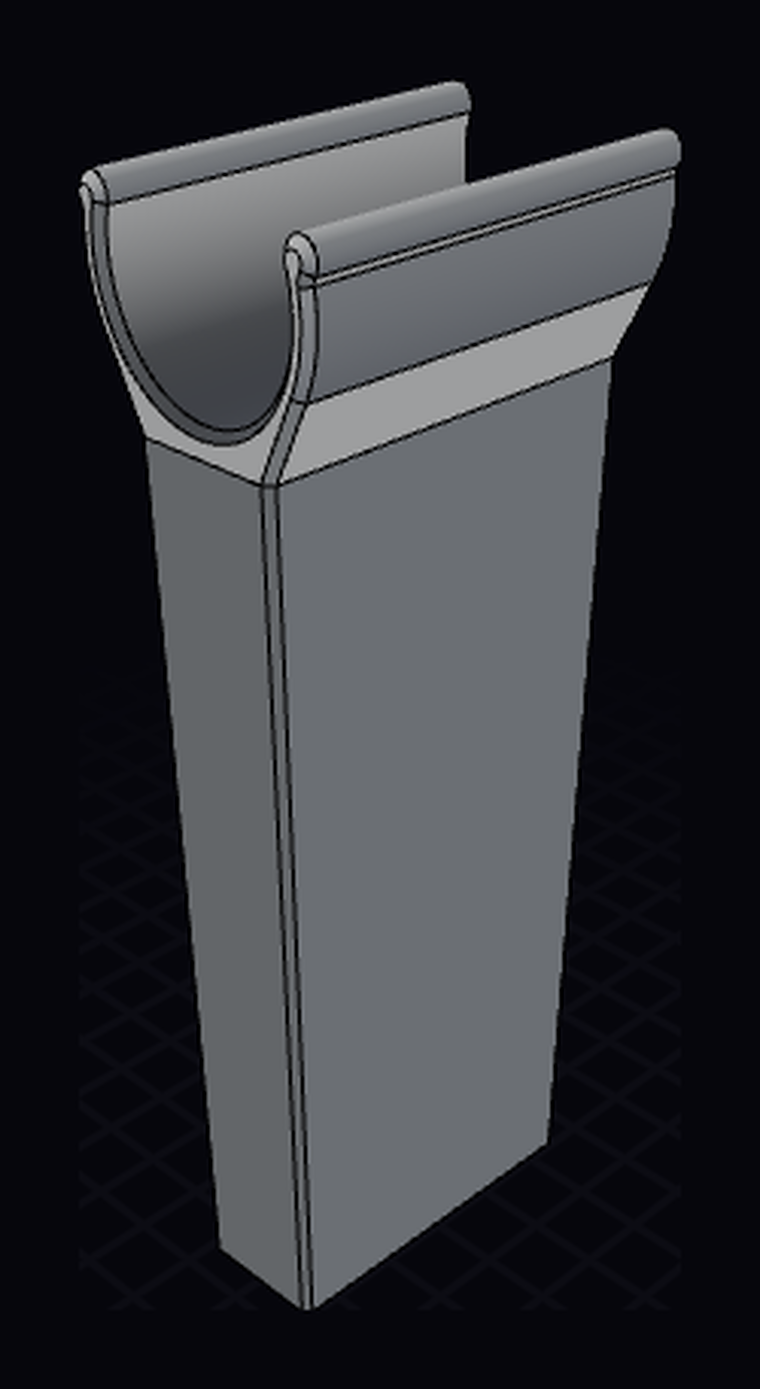
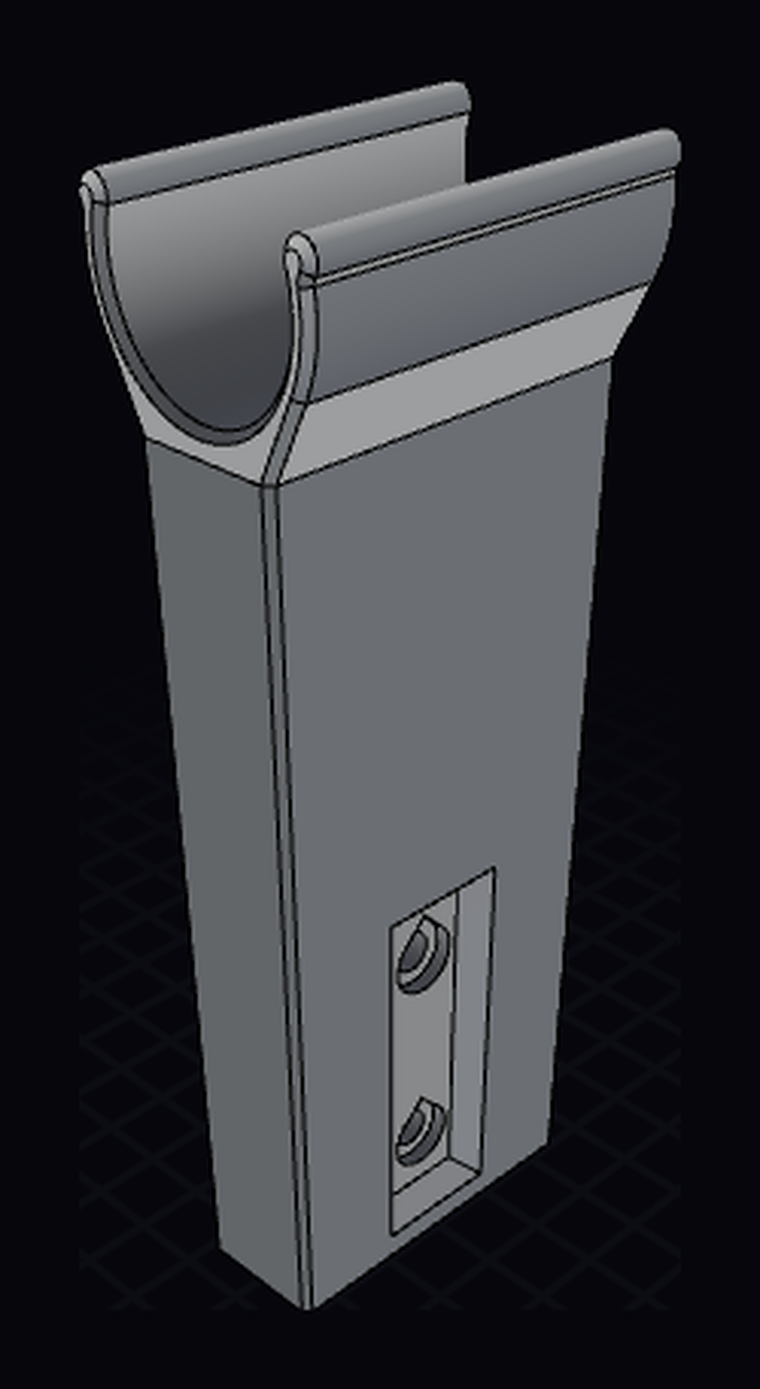
Add stacking holes / registration to pole holder

Changed region(s): [[0.4842, 0.6192, 0.6658, 0.8978]]

diff --git a/src/pole-holder.brep.ts b/src/pole-holder.brep.ts
@@ -16,6 +16,11 @@
  *   into a cylinder along its edge, for the pole to roll in over; without it
  *   the lip is left flat. ./pole-holder-rigid.brep.ts builds it.
  *
+ * The key carries the stacking bolt holes and registration pockets
+ * (./stacking.ts), so the holder can bolt to a side extension post instead.
+ * The clip is wider than the key, so bolted to a post it overhangs the post's
+ * outside face, and the stand must lift it clear of the post's top.
+ *
  * Units and axes as in ./key.ts: Z up from the cutout floor at z = 0, centred
  * in X/Y, X across the rim, Y along it. The rim is at z = insertDepth.
  */
@@ -35,6 +40,7 @@ import {
 
 import { cart, plugFor } from './cart.js';
 import { compliantClip } from './compliant-clip.js';
+import { keyStackingSchema, stacking, stackingDefaults, stackingFeatures } from './stacking.js';
 import { key, keySectionArea } from './key.js';
 import { add, Outline, scale, sub, unit, type Point } from './outline.js';
 import { atLeast, DesignError, fitToleranceSpec, on, type Numeric, type Schema } from './params.js';
@@ -54,7 +60,12 @@ export const defaults = {
   /** Length of bar sunk into the cutout. */
   insertDepth: cart.cutoutDepth,
 
-  /** Bar above the rim, under the clip. */
+  /**
+   * Bar above the rim, under the clip. Bolted to a side extension post, the
+   * key starts `bolt.standOff` (5 mm) up the post, so the clip clears the
+   * post's top once this is at least the extension less 68.5 mm: 81.5 for the
+   * default 150 mm post.
+   */
   standHeight: 50,
 
   /** Outside diameter of the tool pole. The bore adds the fit tolerance. */
@@ -120,6 +131,10 @@ export const defaults = {
 
   /** Printed-fit slop, taken off the cutout's width and length and added to the bore. */
   fitTolerance: cart.fitTolerance,
+
+  /** The stacking features (./stacking.ts): 1 to include each, 0 to leave it off. */
+  boltHoles: stackingDefaults.boltHoles,
+  registration: stackingDefaults.registration,
 } as const;
 
 export type Params = Numeric<typeof defaults>;
@@ -201,8 +216,9 @@ export const schema: Schema<Params> = {
     min: 10,
     max: 150,
     step: 1,
-    help: 'Bar between the rim and the clip.',
+    help: "Bar between the rim and the clip. To bolt it to a side extension post, at least the post's extension less 68.5 mm, so the clip clears the post's top.",
   },
+  ...keyStackingSchema,
   fitTolerance: fitToleranceSpec,
 };
 
@@ -232,7 +248,22 @@ interface Built {
   lipWidth?: number;
 }
 
+/**
+ * The holder: its clip in the form `clip` picks, on a key with the stacking
+ * features cut into it. They sit low in the key, well clear of the clip.
+ */
 export function design(params: Params = defaults): Built {
+  const built = clipDesign(params);
+  const { keyStackingCuts, keyStackingDelta } = stacking(params.fitTolerance, stackingFeatures(params));
+  return {
+    ...built,
+    model: () => keyStackingCuts(built.model()),
+    expected: { ...built.expected, volume: built.expected.volume + keyStackingDelta },
+  };
+}
+
+/** The bar and its clip, before the stacking features. */
+function clipDesign(params: Params): Built {
   const plug = plugFor(params.fitTolerance);
 
   const rim = params.insertDepth; // 63.5

diff --git a/docs/pole-holder.md b/docs/pole-holder.md
@@ -15,11 +15,13 @@ The clip comes in two forms:
 
 Two holders per pole, both with the same clip. Source: [src/pole-holder.brep.ts](../src/pole-holder.brep.ts), with the compliant clip's shape in [src/compliant-clip.ts](../src/compliant-clip.ts). `make export` writes the compliant holder to `out/pole-holder/` and the rigid one to `out/pole-holder-rigid/` ([src/pole-holder-rigid.brep.ts](../src/pole-holder-rigid.brep.ts)).
 
+The key has the same two bolt holes and registration pockets as the other accessories, so with the side extension kit fitted the holder can [bolt to a post](#bolting-it-to-a-post) instead. Fitted in a cutout as usual, both are hidden in the cutout. Set `boltHoles` or `registration` to 0 to leave either off.
+
 For a different pole, change `poleDiameter`. For a taller or shorter stand, change `standHeight`: the clip always sits on the bar's top face. For the rigid clip, set `clip` to 0, and for its flat lip, `rolledEdge` to 0 as well. The [STL generator](https://macropin.github.io/brepjs-gorillacart/#pole-holder) changes all of these in your browser, along with the compliant clip's snap and spring bands and the size of the [rigid clip](https://macropin.github.io/brepjs-gorillacart/#pole-holder?clip=0)'s rolls.
 
 ## Printing
 
-**Compliant clip:** print it lying on one end face, with the clip's profile flat on the bed. Every face then rises straight up from the bed, so nothing needs support. More importantly, the spring bands bend along the layers rather than across them. Standing, the layer lines would cross the bands where they run upright, and the bands could split along a layer. Print it in PETG, which takes the bending far better than PLA.
+**Compliant clip:** print it lying on one end face, with the clip's profile flat on the bed. Every face then rises straight up from the bed, so nothing needs support. More importantly, the spring bands bend along the layers rather than across them. Standing, the layer lines would cross the bands where they run upright, and the bands could split along a layer. Print it in PETG, which takes the bending far better than PLA. Lying down, the bolt holes and counterbores run level, with their teardrop points to one side, and the registration pockets' 45° sides face up and down. At these sizes they print without support either way.
 
 **Rigid clip:** print it standing, as it sits in the cart, on the bottom of the key. The clip's side lines flare out at about 27° from vertical, and the bore prints as an open-topped channel, so neither needs support. Where the clip's square bottom corners sit over the bar's chamfered corners they overhang by a 1 × 1 mm triangle, which prints as a small ledge. The underside of each roll overhangs outward where it stands proud of the clip's outside. At the default 1 mm bulge it's at most about 34° from vertical, over a band 0.35 mm wide, and it stays within 45° up to a 1.5 mm bulge, so it prints without support. At a 2 mm bulge it reaches about 52°, still under a millimetre wide.
 
@@ -27,7 +29,18 @@ For a different pole, change `poleDiameter`. For a taller or shorter stand, chan
 
 Fit two holders in neighbouring cutouts on the same side, 330.7 mm apart, with their clips in line along the rim. Press the pole down into both clips until it snaps in.
 
-Unlike the other accessories, it can't be [stacked on the side extension kit](side-extension-kit.md#stacking-accessories). The clip is wider than the key, so bolted flat to a post it would hit the post. It has no bolt holes.
+### Bolting it to a post
+
+With the side extension kit fitted, bolt the key to the outside of a post through the two holes in it, as for the other [stacking accessories](side-extension-kit.md#stacking-accessories): two M5 × 30 cap screws into the post's nuts, the key's inside pocket over the post's boss. Fit two holders on neighbouring posts on the same side, so the pole runs along the top of the raised walls.
+
+The clip is wider than the key, so bolted flat to a post it overhangs the post's outside face. It has to sit above the post's top to clear it. A bolted-on key starts 5 mm up the post, so the clip clears the top once `standHeight` is at least the post's extension less 68.5 mm:
+
+| Extension | Least stand height | Suggested |
+|---|---|---|
+| 150 mm, the kit's default | 81.5 mm | 85 mm, 3.5 mm clear of the post's top |
+| Any | Extension − 68.5 mm | A few mm more |
+
+The default 50 mm stand is for a cutout, so for a post, print a pair with the stand raised. Both clips overhang the key on both faces, so bolt the holder on outermost, with nothing outside it. To bolt it outside another accessory instead, its clip has to clear that accessory's top in the same way.
 
 ## Compliant clip
 
@@ -41,6 +54,8 @@ Pushing the pole down between the heads presses them apart. The bands bend along
 |---|---|
 | Insert | 19.2 × 51.0 mm key, bottom 63.5 mm into the cutout |
 | Bar | Same section, 50 mm above the rim |
+| Bolt holes | Two Ø5.5 mm through the key across the rim, on its centreline, 15 and 45 mm above its bottom. A Ø9.5 × 5.5 mm counterbore on one face for the cap heads. Teardrops, pointing up |
+| Registration pockets | One in each broad face of the key, around the bolt holes: 18.3 × 52.3 mm at the face, 3.3 mm deep with 45° sides, centred 30 mm above the bottom of the key. The inside one drops over a post's boss, or either takes a [stack locator](side-extension-kit.md#stack-locator) |
 | Clip profile | Rings round the pole's centre, extruded 51 mm along Y. Below them, the convex hull of the bar's top edge and the outer ring |
 | Pole centre | 28.8 mm above the bar top (z = 142.3): the outer ring sits on the bar |
 | Bore | 25.6 mm (25.3 + 0.3), the hooks' inner face |
@@ -70,7 +85,7 @@ The roll starts at the mouth, where the bore ends, at the snap lip height. It's 
 
 | | |
 |---|---|
-| Insert and bar | As the compliant clip: 19.2 × 51.0 mm key, 50 mm above the rim |
+| Insert and bar | As the compliant clip: 19.2 × 51.0 mm key, 50 mm above the rim, with the same bolt holes and registration pockets |
 | Clip profile | Convex hull of the bar's top edge and a 31.6 mm circle round the bore, ending at each lip in a roll; extruded 51 mm along Y |
 | Side lines | From the bar's top corners (±9.6) to tangent points at (±14.02, 8.52) above the bar |
 | Bore | 25.6 mm (25.3 + 0.3) along Y, centre 15.8 mm above the bar top (z = 129.3) |

diff --git a/docs/side-extension-kit.md b/docs/side-extension-kit.md
@@ -46,7 +46,7 @@ With the far end closed straight across between the two farthest long-side posts
 
 ![The machete sleeve bolted to the outside of a side extension post, and the EGO battery holder bolted on outside it, in orange, against the kit on the cart in grey](../media/side-extensions-stacked-assembled.png)
 
-With the kit fitted, every cutout holds a post, so the other accessories bolt to the posts instead. Each post has two M5 holes through it above the rim, with nut pockets on the inside face. The machete sleeve, EGO battery holder and tie-down block have the same two holes through their keys, counterbored for the bolt heads. An accessory bolts flat to the outside face of any post. A second can bolt on outside the first, through the same holes. The render shows the machete sleeve on the middle post of one long side, with the battery holder bolted on outside it.
+With the kit fitted, every cutout holds a post, so the other accessories bolt to the posts instead. Each post has two M5 holes through it above the rim, with nut pockets on the inside face. The machete sleeve, EGO battery holder, tie-down block and pole tool holder have the same two holes through their keys, counterbored for the bolt heads. An accessory bolts flat to the outside face of any post. A second can bolt on outside the first, through the same holes. The render shows the machete sleeve on the middle post of one long side, with the battery holder bolted on outside it.
 
 The bolts only clamp. What lines the parts up is a shallow rectangular boss with 45° sides around the bolt holes, standing 3 mm proud of the post's outside face. Each accessory's key has a matching pocket in both broad faces, and the inside one drops over the boss. The 45° sides centre the key as it goes on and hold it in line, up and down, along the rim and in rotation, whatever the slack in the bolt holes. A key has to fit the cart's cutout, so it can't carry a boss of its own for a second accessory to locate on. Between two keys, a separate printed [stack locator](#stack-locator), two bosses back to back, sits in the pockets of both.
 
@@ -72,7 +72,7 @@ The bolt lengths land with the nut pulled down onto the floor of its 8 mm pocket
 - **EGO battery holder:** outermost, rails out. Nothing can go over the battery's face, so with the machete sleeve the order is post, sleeve, holder.
 - **Machete sleeve under the battery holder:** the blade passes 8 mm inside the holder's back, so the handle has to sit more than 46 mm along the rim from the middle of the stack, past the ends of the holder's rails.
 - **Tie-down block:** a strap point above the raised walls, for holding a load down over them.
-- **Pole tool holder:** doesn't stack. Its clip is wider than its key and would hit the post, so it has no bolt holes.
+- **Pole tool holder:** outermost, with its stand raised. Its clip is wider than its key, so it has to sit above the post's top: a stand of at least the extension less 68.5 mm, 85 mm for the default 150 mm extension. A pair on neighbouring posts carries a pole along the top of the raised walls. See [Bolting it to a post](pole-holder.md#bolting-it-to-a-post).
 - **Mounting plate:** doesn't stack on a post: it hangs over the rim from its own cutout. Its plate can carry a registration boss and bolt holes of its own, though, so an accessory can bolt to it instead: see [Mounting plate](mounting-plate.md#bolting-an-accessory-to-it).
 
 The holes and the registration are optional. In the [STL generator](https://macropin.github.io/brepjs-gorillacart/) you can leave the bolt holes off, with their counterbores and nut pockets, for a part that will only ever sit in a cutout. You can also leave the registration off: the pockets in a key, or the boss on a post. Then the bolts alone line the parts up. A key without pockets won't sit flat against a post with the boss, so leave the boss off that post too.

diff --git a/docs/stl-generator.md b/docs/stl-generator.md
@@ -34,6 +34,7 @@ The defaults are the parts as printed from this repo.
 | | Rolled leading edge (rigid only) | On or off | On |
 | | Roll bulge (with the rolled edge) | 0–2 mm | 1 mm |
 | | Height above the rim | 10–150 mm | 50 mm |
+| | Bolt holes, registration pockets | On or off | On |
 | Machete sleeve | Blade thickness | 1.5–8 mm | 3 mm |
 | | Slot length | 40–200 mm | 110 mm |
 | | Bolt holes, registration pockets | On or off | On |
@@ -53,6 +54,7 @@ The defaults are the parts as printed from this repo.
 - **The kit** shares its settings across its parts. The posts, side panels and corner panels are all built from the same extension, lean and groove width, so they always fit each other. The stack locator has nothing to change: the pockets in the keys take the fit.
 - **Fit tolerance** belongs to the printer, not the part, so changing it on one accessory changes it on the others too.
 - **The pole tool holder's compliant clip** grows with the pole and its bands. The snap sets how far round the bore the heads sit, so the opening is that much narrower than the pole. See [Compliant clip](pole-holder.md#compliant-clip).
+- **The pole tool holder bolted to a post** needs its height above the rim raised to at least the post's extension less 68.5 mm, so the clip clears the post's top. The page can't check this: the holder doesn't know the kit's settings. See [Bolting it to a post](pole-holder.md#bolting-it-to-a-post).
 - **The pole tool holder's rolled edge**, on the rigid clip, starts where the bore ends, at the snap lip height, and is the wall plus the bulge across. See [Rolled leading edge](pole-holder.md#rolled-leading-edge).
 - **The machete sleeve's bar** grows with its slot, keeping 8.35 mm of solid above and below it.
 - **The mounting plate without its plate** is a bracket on the rim: the bridge reaching out past it, with only the holes in its top.

diff --git a/README.md b/README.md
@@ -85,7 +85,7 @@ A flat plate that hangs outside the rim, to bolt a sheet of ply or anything else
 
 The accessories are designed for the 200L poly dump cart linked above. Its rim has eight cutouts, each 51.3 × 19.5 mm and 63.5 mm deep: three along each long side and two at the handle end. Every accessory stands on the same 51.0 × 19.2 mm key that drops into one.
 
-The side extension kit uses all eight cutouts. The other accessories take one cutout each, in any combination. With the kit fitted, the machete sleeve, EGO battery holder and tie-down block bolt to its posts instead, two deep if you like, with M5 bolts: see [Stacking accessories](docs/side-extension-kit.md#stacking-accessories). The pole tool holder and the mounting plate don't stack on the posts, though the mounting plate can carry a registration boss of its own, for an accessory to bolt to it instead.
+The side extension kit uses all eight cutouts. The other accessories take one cutout each, in any combination. With the kit fitted, the machete sleeve, EGO battery holder and tie-down block bolt to its posts instead, two deep if you like, with M5 bolts: see [Stacking accessories](docs/side-extension-kit.md#stacking-accessories). So does the pole tool holder, printed with a taller stand so its clip clears the post's top. The mounting plate doesn't stack on the posts, though it can carry a registration boss of its own, for an accessory to bolt to it instead.
 
 The mounting plate hangs outside the rim, 5 mm clear of its outside edge. That edge's position comes from Gorilla's product photos rather than a measurement, so check the plate clears your rim: see [Mounting plate](docs/mounting-plate.md#fitting).
 
